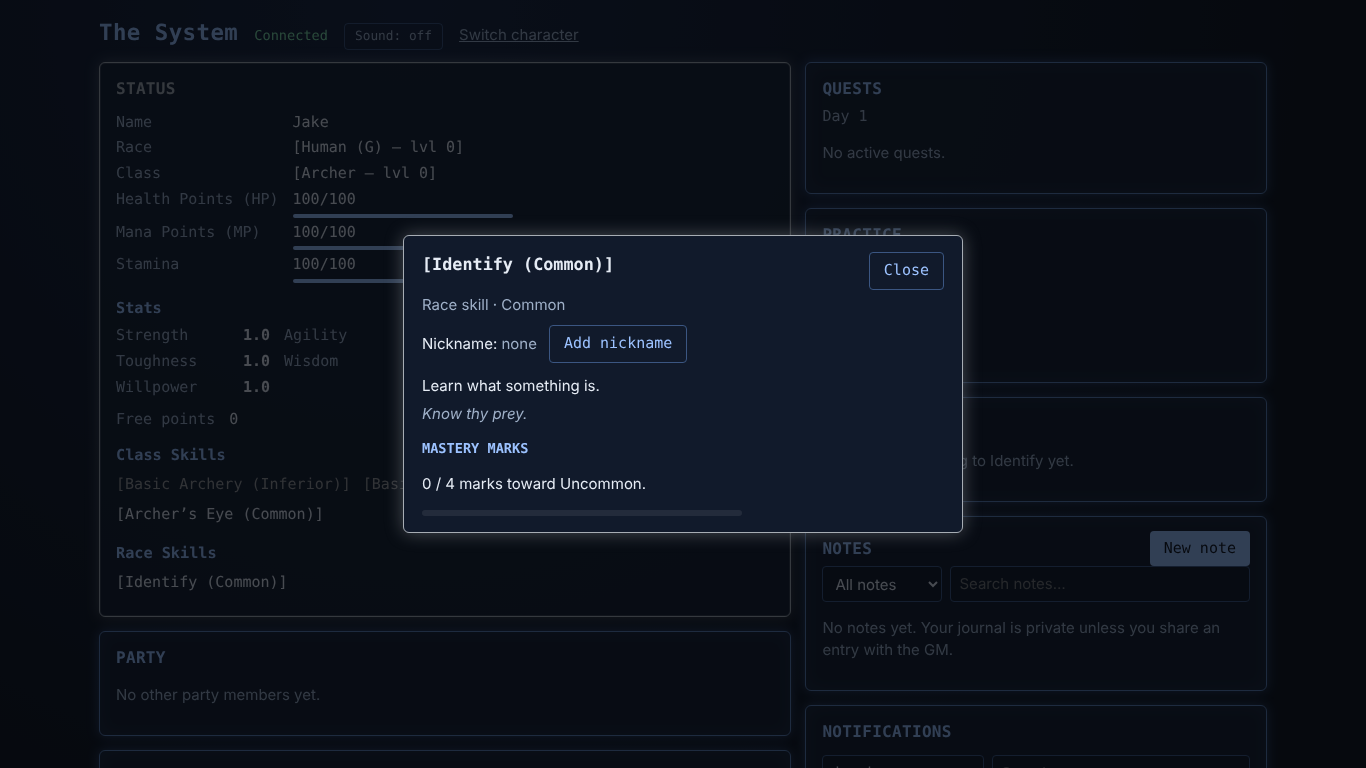
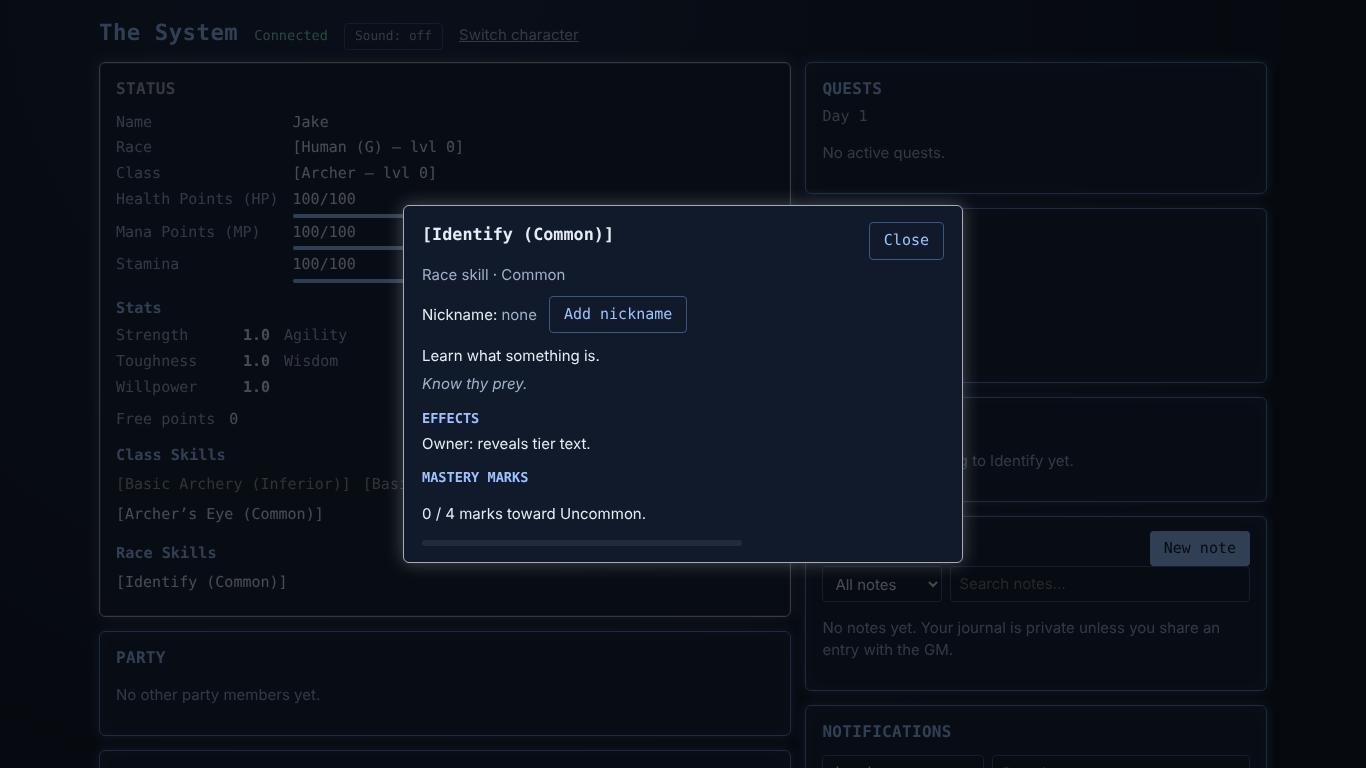
feat(MQ.12): GM library form says effects reach the owner and edits follow to copies; M4.1 e2e follows the new rules
Claude-Session: https://claude.ai/code/session_01R249dKJD7sqvJGJ4Fd2XXx

Changed region(s): [[0.3075, 0.25, 0.7072, 0.75]]

diff --git a/e2e/M4.1.spec.ts b/e2e/M4.1.spec.ts
@@ -6,7 +6,8 @@ import { startBuiltServer, type RunningServer } from './helpers/server';
 // M4.1 Skill library: the GM creates and edits library skills (rarity, tags,
 // description, flavour, effects); a character who gains a skill by that name
 // gets its System text, including the starting race skill Identify. Effects
-// text never reaches a player (D90).
+// text reaches only the skill's owner (MQ.12; D90 kept it GM-only), and a
+// library edit reaches every copy the GM has not written by hand (MQ.12).
 
 const GM_KEY = 'e2e-gm-key-m41-0123456789abcdef';
 const SECRET = 'GM-ONLY-EFFECTS-CANARY-41';
@@ -72,7 +73,9 @@ test('the GM builds the skill library; granted skills take its text', async ({ b
   await library.getByLabel('Tags (comma-separated)').fill('Race, Utility, race');
   await library.getByLabel('Description (players see this)').fill('Learn what something is.');
   await library.getByLabel('Flavour (players see this)').fill('Knowledge is the first weapon.');
-  await library.getByLabel('Effects (GM only)').fill(`${SECRET}: reveals tier text.`);
+  await library
+    .getByLabel('Effects (only the skill’s owner sees this)')
+    .fill('Owner: reveals tier text.');
   await add.click();
   await expect(library.getByRole('status')).toHaveText('[Identify] added to the library');
   await expect(library.getByLabel('Official name')).toHaveValue('');
@@ -84,6 +87,8 @@ test('the GM builds the skill library; granted skills take its text', async ({ b
   await library.getByLabel('Official name').fill('Arcane Bolt');
   await library.getByLabel('Rarity').selectOption({ label: 'Rare' });
   await library.getByLabel('Tags (comma-separated)').fill('Ranged, Mana');
+  // Nobody owns Arcane Bolt, so its effects must reach no player.
+  await library.getByLabel('Effects (only the skill’s owner sees this)').fill(SECRET);
   await add.click();
   await expect(library.getByRole('status')).toHaveText('[Arcane Bolt] added to the library');
 
@@ -95,6 +100,7 @@ test('the GM builds the skill library; granted skills take its text', async ({ b
 
   // A clashing name is refused with a readable error.
   await library.getByLabel('Official name').fill('identify');
+  await library.getByLabel('Rarity').selectOption({ label: 'Common' });
   await add.click();
   await expect(library.getByRole('alert')).toContainText('already has [Identify]');
 
@@ -146,6 +152,9 @@ test('the GM builds the skill library; granted skills take its text', async ({ b
       'Learn what something is.',
     );
     await expect(detail.getByTestId('skill-detail-flavor')).toHaveText('Know thy prey.');
+    await expect(detail.getByTestId('skill-detail-effects')).toHaveText(
+      'Owner: reveals tier text.',
+    );
     await noSidewaysScroll(player);
     await player.screenshot({
       path: path.join(shots, `player-identify-${viewport.width}x${viewport.height}.png`),
@@ -158,7 +167,7 @@ test('the GM builds the skill library; granted skills take its text', async ({ b
     await player.close();
   }
 
-  // Later library edits leave granted skills alone.
+  // Later library edits reach the granted copy (MQ.12).
   await identifyItem.click();
   await library.getByLabel('Description (players see this)').fill('Rewritten later.');
   await library.getByRole('button', { name: 'Save changes' }).click();
@@ -167,9 +176,7 @@ test('the GM builds the skill library; granted skills take its text', async ({ b
   await check.goto(server.url);
   await check.getByRole('link', { name: /Jake/ }).click();
   await check.getByRole('button', { name: /\[Identify \(Common\)\]/ }).click();
-  await expect(check.getByTestId('skill-detail-description')).toHaveText(
-    'Learn what something is.',
-  );
+  await expect(check.getByTestId('skill-detail-description')).toHaveText('Rewritten later.');
   await check.close();
 
   // A second GM tab edits the entry: an untouched form follows it...
@@ -183,17 +190,19 @@ test('the GM builds the skill library; granted skills take its text', async ({ b
   await expect(otherLibrary.getByRole('status')).toHaveText('[Identify] saved');
   await expect(library.getByLabel('Flavour (players see this)')).toHaveValue('From the other tab.');
   // ...while a form with local edits warns, keeps them, and can reload.
-  await library.getByLabel('Effects (GM only)').fill('Local change.');
+  await library.getByLabel('Effects (only the skill’s owner sees this)').fill('Local change.');
   await otherLibrary.getByLabel('Flavour (players see this)').fill('Second outside edit.');
   await otherLibrary.getByRole('button', { name: 'Save changes' }).click();
   await expect(library.getByRole('alert')).toContainText('changed elsewhere');
-  await expect(library.getByLabel('Effects (GM only)')).toHaveValue('Local change.');
+  await expect(library.getByLabel('Effects (only the skill’s owner sees this)')).toHaveValue(
+    'Local change.',
+  );
   await library.getByRole('button', { name: 'Reload' }).click();
   await expect(library.getByLabel('Flavour (players see this)')).toHaveValue(
     'Second outside edit.',
   );
-  await expect(library.getByLabel('Effects (GM only)')).toHaveValue(
-    `${SECRET}: reveals tier text.`,
+  await expect(library.getByLabel('Effects (only the skill’s owner sees this)')).toHaveValue(
+    'Owner: reveals tier text.',
   );
   await expect(library.getByRole('alert')).toHaveCount(0);
   expect(otherErrors).toEqual([]);

diff --git a/apps/web/src/gm/SkillLibrary.tsx b/apps/web/src/gm/SkillLibrary.tsx
@@ -166,7 +166,9 @@ export function SkillLibrary({ client, state }: { client: LiveClient; state: Cam
           />
         </label>
         <label>
-          Effects (GM only)
+          {state.rules.skills.libraryByRarity
+            ? 'Effects (only the skill’s owner sees this)'
+            : 'Effects (GM only)'}
           <textarea
             value={draft.effects}
             onChange={(e) => set('effects', e.target.value)}
@@ -174,10 +176,18 @@ export function SkillLibrary({ client, state }: { client: LiveClient; state: Cam
             rows={3}
           />
         </label>
-        <p className="muted hint">
-          Characters who gain a skill with this name get its description and flavour, unless the
-          skill already has its own. Editing here does not change skills already granted.
-        </p>
+        {state.rules.skills.libraryByRarity ? (
+          <p className="muted hint">
+            One entry per name and rarity. Every character’s copy at this rarity shows its text,
+            including after an upgrade, and follows your edits here, unless you wrote that
+            character’s text by hand (Skill text).
+          </p>
+        ) : (
+          <p className="muted hint">
+            Characters who gain a skill with this name get its description and flavour, unless the
+            skill already has its own. Editing here does not change skills already granted.
+          </p>
+        )}
         {changedElsewhere && stored && (
           <p className="err" role="alert">
             [{stored.name}] changed elsewhere since you opened it. Saving sends only the fields you
